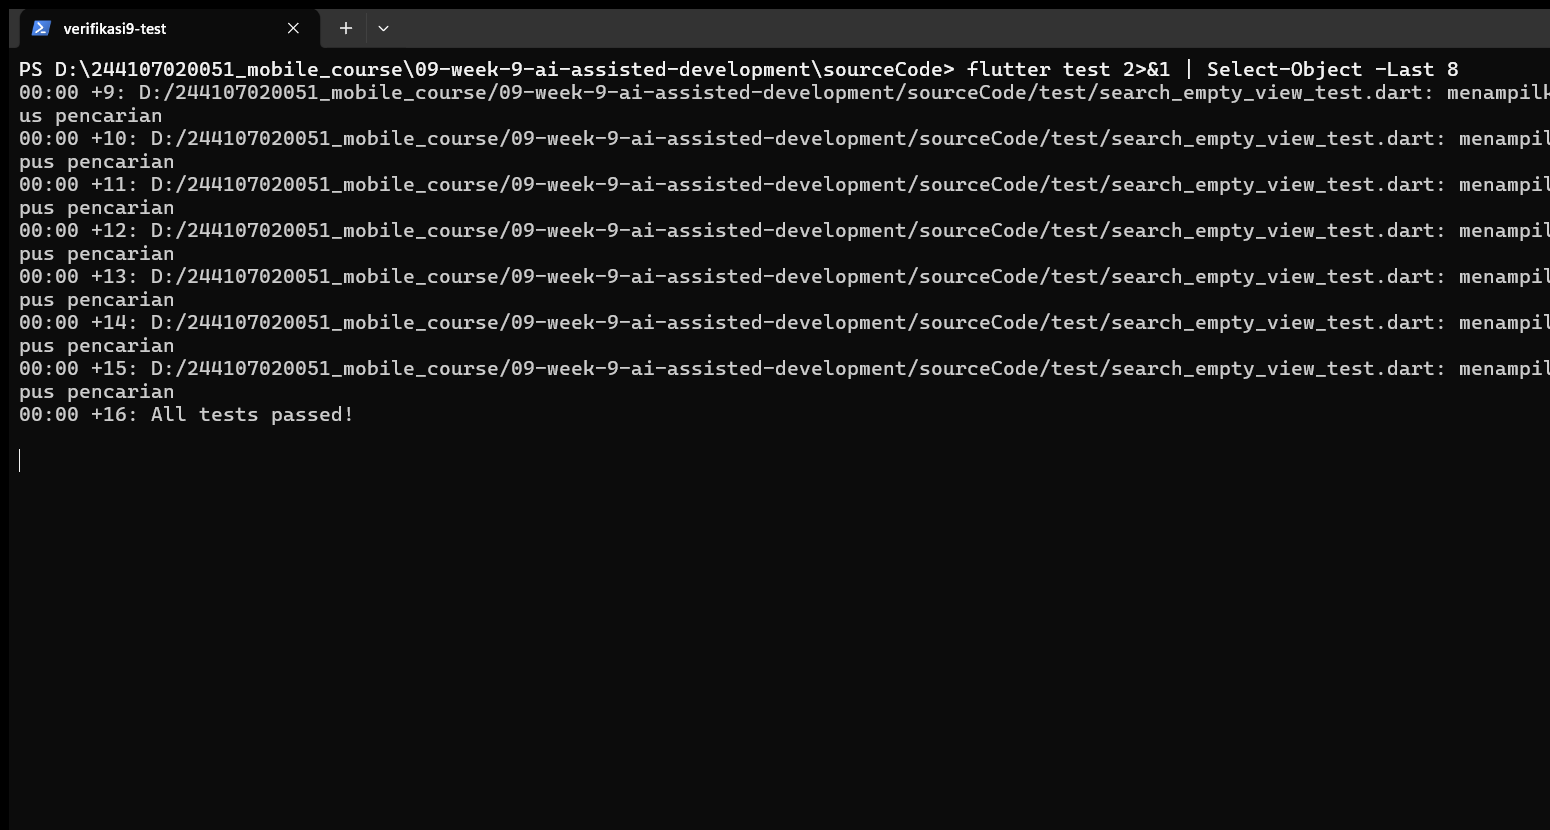
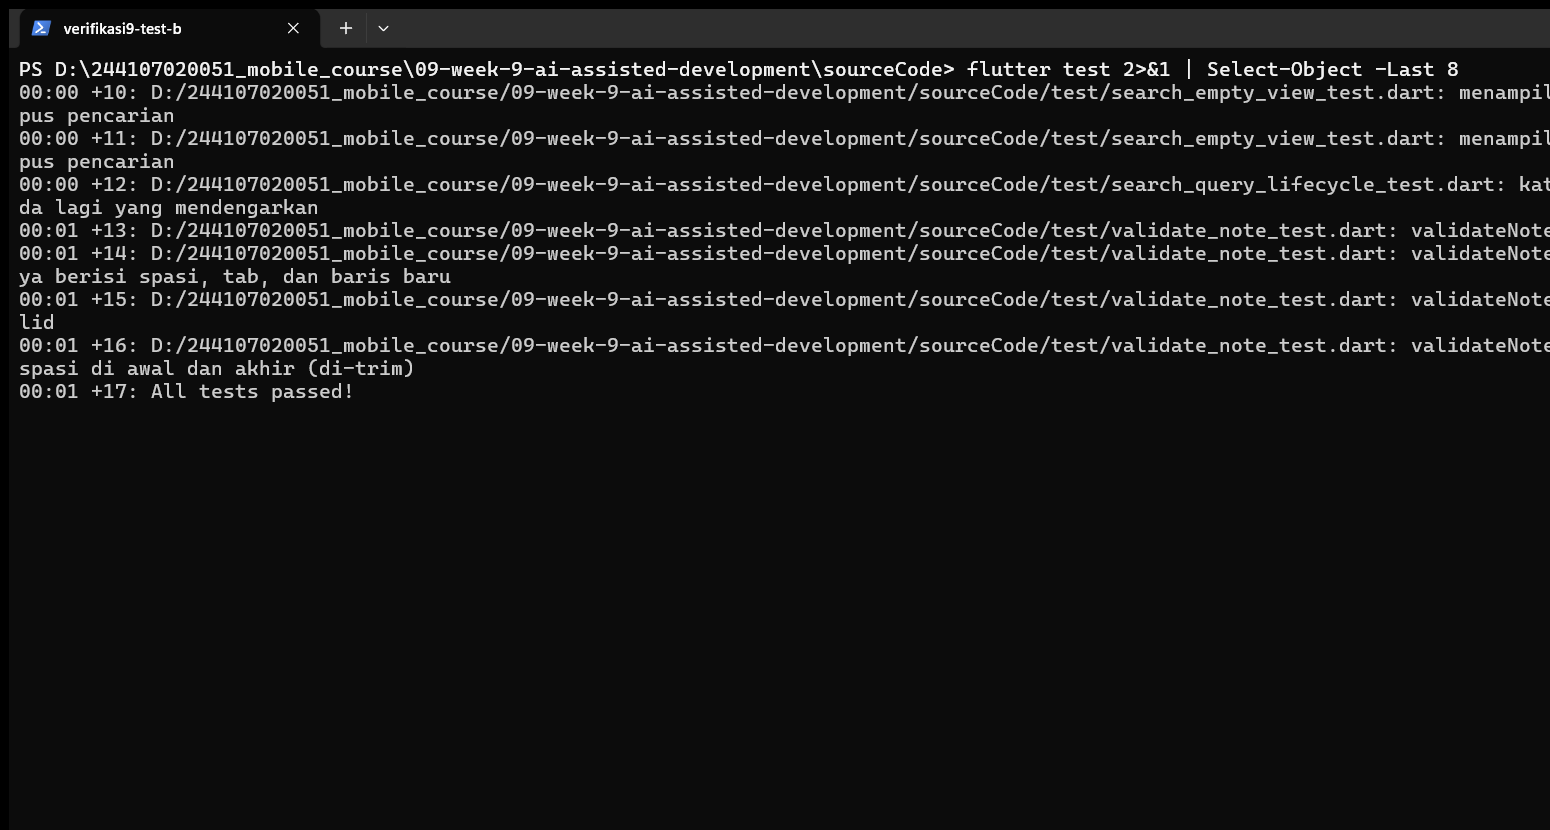
docs: lengkapi log AI dengan review tahap kedua dan bukti batas layer
Menambahkan prompt review sesuai modul, tiga temuan (satu blocker siklus hidup query, dua saran yang ditolak), bukti grep bahwa domain bebas Flutter/Dio/SQLite, serta baris uji manual untuk query kosong dan pindah tab. Screenshot analyze, format, dan test diambil ulang supaya angkanya cocok dengan 34 berkas dan 17 test.

diff --git a/09-week-9-ai-assisted-development/docs/ai-log.md b/09-week-9-ai-assisted-development/docs/ai-log.md
@@ -4,8 +4,8 @@
 **NIM:** 244107020051
 **Fitur:** pencarian judul catatan + empty state
 **Basis proyek:** `week5_offline_notes` hasil refaktor Minggu 7, disalin dari `08-week-8-mid-project-review/sourceCode`
-**Branch:** `feature/8-search-notes` → `develop`
-**Issue:** [#8](https://github.com/Ahmad-Zainudin-Fanani/244107020051_mobile_course/issues/8)
+**Branch:** `feature/8-search-notes`, lalu `fix/11-search-query-lifecycle` → `develop`
+**Issue:** [#8](https://github.com/Ahmad-Zainudin-Fanani/244107020051_mobile_course/issues/8), lanjutan [#11](https://github.com/Ahmad-Zainudin-Fanani/244107020051_mobile_course/issues/11)
 
 > AI dipakai sebagai pembuat draf dan reviewer awal. Setiap baris saya baca, setiap API saya cek, dan setiap keputusan di bawah ini bisa saya jelaskan tanpa membuka AI.
 
@@ -49,9 +49,9 @@ final notesProvider =
 
 ---
 
-## 2. Output awal AI (draf mentah)
+## 2. Output awal AI
 
-Ringkasan draf yang saya terima, sebelum disentuh:
+Potongan inti output awal AI, apa adanya sebelum diedit:
 
 ```dart
 // Draf 1 — ditaruh langsung di dalam build() NotesPage
@@ -150,6 +150,56 @@ $ flutter test test/search_notes_test.dart
 00:00 +5: All tests passed!
 ```
 
+### 3.3 Review tahap kedua: bug siklus hidup state
+
+Setelah fitur hijau, saya menjalankan prompt review yang diminta modul pada kode pencarian final:
+
+```text
+Review kode search Flutter ini sebagai senior dev.
+Konteks: feature-first (presentation->domain<-data), Riverpod, SQLite + Dio.
+Fokus: kebenaran, arsitektur, test. Abaikan style.
+Beri 3 temuan + level blocker/saran + alasan.
+```
+
+Tiga temuan yang muncul:
+
+| ID | Level | Temuan | Keputusan |
+| :---: | :--- | :--- | :--- |
+| R1 | blocker | `searchQueryProvider` berumur aplikasi, sedangkan `_searchController` berumur halaman. Saat tab berpindah, halaman dibuang tetapi query tetap, sehingga daftar tersaring tanpa teks di kolom cari. | **Diterima + diperbaiki**: provider diubah ke `NotifierProvider.autoDispose`, ditambah test regresi. |
+| R2 | saran | Tambahkan debounce pada `onChanged` supaya tidak memfilter tiap ketikan. | **Ditolak**: daftar sudah ada di memori dan tidak ada I/O; debounce hanya menambah delay yang terasa. |
+| R3 | saran | Tambahkan widget test yang mengetik di kolom cari lalu memeriksa daftar tersaring. | **Ditolak untuk saat ini**: wiring sudah diuji manual di perangkat dan aturan filter punya 5 unit test; widget test penuh butuh fake repository/DB yang menambah setup tanpa menambah keyakinan pada aturan yang sama. |
+
+R1 saya reproduksi di perangkat: cari `belanja`, pindah ke **Pengaturan**, lalu kembali ke **Catatan**. Hasilnya kolom cari kosong tetapi hanya dua catatan `Belanja` yang tampil. Setelah perbaikan, test regresi sempat merah pada kode lama:
+
+```text
+$ flutter test test/search_query_lifecycle_test.dart
+00:00 +0: kata kunci dibuang saat tidak ada lagi yang mendengarkan [E]
+  Expected: empty
+    Actual: 'belanja'
+00:00 +0 -1: Some tests failed.
+```
+
+lalu hijau setelah provider memakai `autoDispose`:
+
+```text
+00:00 +0: kata kunci dibuang saat tidak ada lagi yang mendengarkan
+00:00 +1: All tests passed!
+```
+
+Bukti visual: [`fix_search_state_before.png`](../Screenshots/fix_search_state_before.png) dan [`fix_search_state_after.png`](../Screenshots/fix_search_state_after.png).
+
+### 3.4 Cek batas layer
+
+Domain tidak boleh menyentuh Flutter, Dio, atau SQLite. Saya cek dengan pencarian langsung, bukan hanya membaca:
+
+```text
+$ Get-ChildItem lib/features/notes/domain -Recurse -Filter *.dart |
+    Select-String "package:flutter|package:dio|sqflite"
+(tidak ada output)
+```
+
+`flutter analyze` juga bersih, sehingga tidak ada import lintas layer yang lolos.
+
 ---
 
 ## 4. Saran AI yang ditolak
@@ -160,6 +210,8 @@ $ flutter test test/search_notes_test.dart
 | Pindahkan filter ke query SQLite (`WHERE title LIKE ?`) supaya "lebih scalable". | `notesProvider` sudah memegang daftar `Note` lengkap untuk kebutuhan offline-first, dan `NoteRepository` tidak punya kontrak pencarian. Menambah query baru berarti mengubah kontrak repository + schema test, padahal UI butuh hasil instan setiap ketikan. Aturan filter juga jadi tidak bisa diuji tanpa database. | Filter di use case domain murni, di atas data yang sudah dimuat. |
 | Simpan hasil pencarian di `setState` dalam `NotesPage`. | State pencarian akan hilang setiap rebuild/refresh dan tidak bisa dipakai widget lain. Ini juga mencampur aturan filter ke UI, melanggar pemisahan yang sudah dibangun Minggu 7. | `SearchQueryNotifier` + `filteredNotesProvider` di Riverpod. |
 | Buat empty state langsung `Center(child: Text(...))` di halaman. | Tidak bisa diuji sendiri dan menduplikasi layout saat nanti ada empty state lain. | Widget terpisah `SearchEmptyView` + widget test. |
+| Tambahkan debounce pada `onChanged` (temuan review R2). | Daftar catatan sudah ada di memori dan tidak ada I/O; debounce hanya menambah jeda yang terasa tanpa menghemat pekerjaan berarti. | Filter tetap dijalankan langsung setiap ketikan. |
+| Tambahkan widget test penuh untuk alur ketik -> filter (temuan review R3). | Aturan filter sudah diuji 5 kasus dan wiring-nya diuji manual di perangkat. Widget test penuh membutuhkan fake repository/DB, menambah setup tanpa menambah keyakinan pada aturan yang sama. | Test provider siklus hidup + uji manual; widget test tetap fokus pada empty state. |
 
 ---
 
@@ -168,11 +220,12 @@ $ flutter test test/search_notes_test.dart
 | Berkas | Keputusan | Catatan |
 | :--- | :--- | :--- |
 | `lib/features/notes/domain/usecases/search_notes.dart` | **Terima + refactor** | Ide AI dipakai, tapi dipindah dari widget ke fungsi domain murni dan dibuat peka huruf besar/kecil. |
-| `lib/features/notes/presentation/providers/notes_providers.dart` | **Tolak draf, tulis manual** | `notesProvider.notifier.search()` tidak ada; diganti `SearchQueryNotifier` dan `filteredNotesProvider`. |
+| `lib/features/notes/presentation/providers/notes_providers.dart` | **Tolak draf, tulis manual** | `notesProvider.notifier.search()` tidak ada; diganti `SearchQueryNotifier` dan `filteredNotesProvider`. Setelah review tahap kedua, provider query dibuat `autoDispose`. |
 | `lib/features/notes/presentation/pages/notes_page.dart` | **Terima + refactor** | Kolom cari dipakai, tetapi state diarahkan ke provider dan daftar memakai hasil `filteredNotesProvider`. |
 | `lib/features/notes/presentation/widgets/search_empty_view.dart` | **Terima + rapikan** | Draf teks polos diubah jadi widget dengan ikon, pesan kata kunci, dan tombol hapus pencarian. |
 | `test/search_notes_test.dart` | **Tulis manual** | Lima kasus: beda huruf, spasi, query kosong, tanpa hasil, dan kecocokan di tengah judul. |
 | `test/search_empty_view_test.dart` | **Tulis manual** | Memastikan kata kunci tampil dan tombol memanggil `onClear`. |
+| `test/search_query_lifecycle_test.dart` | **Tulis manual** | Regresi R1: state query harus kosong setelah listener terakhir dilepas. |
 | Dependency baru (`fuzzy`, dll.) | **Tolak** | Tidak perlu untuk kebutuhan *contains* sederhana. |
 
 ---
@@ -186,9 +239,10 @@ Perangkat: `2209116AG (mobile) • 5751c2fd0013 • android-arm64 • Android 13
 | Daftar awal | — | 5 catatan tampil, kolom cari terlihat | Lolos |
 | Cocok, beda huruf | `belanja` | 2 catatan: "Belanja bulanan", "Belanja harian" | Lolos |
 | Tidak cocok | `zzz` | Empty state + tombol "Hapus pencarian" | Lolos |
-| Hapus pencarian | tekan tombol | Kembali ke daftar penuh | Lolos |
+| Query kosong | tekan tombol hapus | Kembali ke daftar penuh, kolom cari kosong | Lolos |
+| Pindah tab saat query aktif | `belanja` -> Pengaturan -> Catatan | Sebelum perbaikan: daftar tetap tersaring padahal kolom kosong. Sesudah perbaikan: seluruh catatan tampil | **Lolos setelah fix R1** |
 
-Bukti visual ada di [`../Screenshots/app_notes_home.png`](../Screenshots/app_notes_home.png), [`../Screenshots/app_search_results.png`](../Screenshots/app_search_results.png), dan [`../Screenshots/app_search_empty.png`](../Screenshots/app_search_empty.png).
+Bukti visual ada di [`../Screenshots/app_notes_home.png`](../Screenshots/app_notes_home.png), [`../Screenshots/app_search_results.png`](../Screenshots/app_search_results.png), [`../Screenshots/app_search_empty.png`](../Screenshots/app_search_empty.png), [`../Screenshots/fix_search_state_before.png`](../Screenshots/fix_search_state_before.png), dan [`../Screenshots/fix_search_state_after.png`](../Screenshots/fix_search_state_after.png).
 
 ---
 
@@ -198,13 +252,13 @@ Dijalankan di `09-week-9-ai-assisted-development/sourceCode`:
 
 ```text
 $ flutter analyze
-No issues found! (ran in 6.2s)
+No issues found! (ran in 4.3s)
 
 $ dart format --output=none --set-exit-if-changed .
-Formatted 33 files (0 changed)
+Formatted 34 files (0 changed)
 
 $ flutter test
-00:00 +16: All tests passed!
+00:00 +17: All tests passed!
 ```
 
 Tangkapan layar: [`verif_flutter_analyze.png`](../Screenshots/verif_flutter_analyze.png), [`verif_dart_format.png`](../Screenshots/verif_dart_format.png), [`verif_flutter_test.png`](../Screenshots/verif_flutter_test.png).
@@ -220,3 +274,5 @@ Tangkapan layar: [`verif_flutter_analyze.png`](../Screenshots/verif_flutter_anal
 **Refactor terpenting** adalah memindahkan filter dari `build()` ke `searchNotesByTitle`. Efeknya bukan hanya lebih rapi: aturan bisnis sekarang bisa diuji lima kasus dalam hitungan milidetik, tanpa membangun widget atau database.
 
 **Keputusan tersulit** adalah menolak pencarian berbasis SQL. Terdengar lebih "dewasa" dan scalable, tetapi untuk ukuran data aplikasi ini justru menambah jalur yang tidak perlu diuji dan memutus kontrak repository yang sudah stabil.
+
+**Pelajaran dari review tahap kedua:** bug yang paling mengganggu justru tidak terlihat dari unit test domain. Test pencarian hijau, empty state hijau, tetapi siklus hidup state antarhalaman tetap salah. Review dengan prompt yang tepat menemukannya, dan satu test regresi kecil membuat perbaikannya bisa dibuktikan. Ini alasan saya tidak berhenti di "test hijau" — yang diuji harus mencakup perpindahan state, bukan hanya fungsi murni.

diff --git a/09-week-9-ai-assisted-development/README.md b/09-week-9-ai-assisted-development/README.md
@@ -7,6 +7,7 @@
 **Tautan Repositori:** [244107020051_mobile_course](https://github.com/Ahmad-Zainudin-Fanani/244107020051_mobile_course)
 **Issue:** [#8 Cari catatan berdasarkan judul dengan empty state](https://github.com/Ahmad-Zainudin-Fanani/244107020051_mobile_course/issues/8)
 **Pull Request:** [#9 feat(notes): cari catatan berdasarkan judul dengan empty state](https://github.com/Ahmad-Zainudin-Fanani/244107020051_mobile_course/pull/9)
+**Pull Request perbaikan:** [#12 fix(notes): query pencarian dibuang saat halaman catatan ditinggalkan](https://github.com/Ahmad-Zainudin-Fanani/244107020051_mobile_course/pull/12)
 **Log AI:** [`docs/ai-log.md`](docs/ai-log.md)
 
 ---
@@ -30,8 +31,8 @@ Yang penting dari minggu ini bukan jumlah kode yang dihasilkan AI, tetapi jejak 
 | Fitur kecil di atas project lama | 1 fitur | **Lolos** — pencarian judul + empty state |
 | Aturan pencarian di domain | Tidak di widget | **Lolos** — `searchNotesByTitle` |
 | `flutter analyze` | 0 issue | **Lolos** — `No issues found!` |
-| `dart format --set-exit-if-changed .` | 0 file berubah | **Lolos** — `33 files (0 changed)` |
-| `flutter test` | Semua hijau | **Lolos** — 16 test |
+| `dart format --set-exit-if-changed .` | 0 file berubah | **Lolos** — `34 files (0 changed)` |
+| `flutter test` | Semua hijau | **Lolos** — 17 test |
 | Dokumentasi AI | Prompt + halusinasi + tolak/terima | **Lolos** — [`docs/ai-log.md`](docs/ai-log.md) |
 | Uji di perangkat nyata | Android 13 | **Lolos** — `2209116AG` / `5751c2fd0013` |
 
@@ -85,16 +86,17 @@ Tidak ada akses database dari widget, dan aturan filter tidak bergantung pada Fl
 
 ## 4. Perubahan kode
 
-Diff fitur terhadap baseline Minggu 8: **6 berkas, +265 / −5 baris**.
+Diff fitur terhadap baseline Minggu 8: **7 berkas, +289 / −5 baris**.
 
 | Berkas | Perubahan |
 | :--- | :--- |
 | `lib/features/notes/domain/usecases/search_notes.dart` | **Baru** — fungsi murni `searchNotesByTitle` |
-| `lib/features/notes/presentation/providers/notes_providers.dart` | `SearchQueryNotifier`, `searchQueryProvider`, `filteredNotesProvider` |
+| `lib/features/notes/presentation/providers/notes_providers.dart` | `SearchQueryNotifier`, `searchQueryProvider` (autoDispose), `filteredNotesProvider` |
 | `lib/features/notes/presentation/pages/notes_page.dart` | Kolom cari, daftar memakai hasil filter, tombol hapus |
 | `lib/features/notes/presentation/widgets/search_empty_view.dart` | **Baru** — empty state yang bisa diuji |
 | `test/search_notes_test.dart` | **Baru** — 5 unit test aturan pencarian |
 | `test/search_empty_view_test.dart` | **Baru** — widget test empty state |
+| `test/search_query_lifecycle_test.dart` | **Baru** — regresi query dibuang saat halaman ditinggalkan |
 
 Baseline project Minggu 8 disalin lebih dulu pada commit `chore`, sehingga diff fitur tetap kecil dan mudah direview.
 
@@ -132,13 +134,13 @@ Uji manual:
 
 ```text
 $ flutter analyze
-No issues found! (ran in 6.2s)
+No issues found! (ran in 4.3s)
 
 $ dart format --output=none --set-exit-if-changed .
-Formatted 33 files (0 changed)
+Formatted 34 files (0 changed)
 
 $ flutter test
-00:00 +16: All tests passed!
+00:00 +17: All tests passed!
 ```
 
 <div align="center">
@@ -153,7 +155,7 @@ $ flutter test
 
 <div align="center">
   <img src="Screenshots/verif_flutter_test.png" alt="Hasil flutter test" width="650">
-  <p><em>Gambar 6.3: 16 test lulus, termasuk 5 test pencarian dan 1 widget test empty state.</em></p>
+  <p><em>Gambar 6.3: 17 test lulus, termasuk 5 test pencarian, 1 widget test empty state, dan 1 test siklus hidup query.</em></p>
 </div>
 
 ### 6.2 Bukti di perangkat
@@ -175,6 +177,20 @@ Diambil dari `2209116AG (mobile) • 5751c2fd0013 • android-arm64 • Android 
   <p><em>Gambar 6.6: Query <code>zzz</code> menampilkan empty state dan tombol hapus pencarian.</em></p>
 </div>
 
+### 6.3 Perbaikan siklus hidup pencarian
+
+Review tahap kedua menemukan bug: setelah mencari lalu pindah tab, kolom cari kosong tetapi daftar tetap tersaring. Penyebabnya query hidup lebih lama daripada halaman. Sesudah provider dibuat `autoDispose`, seluruh catatan kembali tampil.
+
+<div align="center">
+  <img src="Screenshots/fix_search_state_before.png" alt="Sebelum perbaikan: kolom kosong tapi daftar tersaring" width="260">
+  <p><em>Gambar 6.7: Sebelum perbaikan — kolom cari kosong, tetapi hanya dua catatan <code>Belanja</code> yang tampil.</em></p>
+</div>
+
+<div align="center">
+  <img src="Screenshots/fix_search_state_after.png" alt="Sesudah perbaikan: seluruh catatan tampil" width="260">
+  <p><em>Gambar 6.8: Sesudah perbaikan — pindah tab mengembalikan seluruh catatan dan mengosongkan pencarian.</em></p>
+</div>
+
 ---
 
 ## 7. Temuan AI dan keputusan
@@ -188,6 +204,7 @@ Ringkasan; detail bukti ada di [`docs/ai-log.md`](docs/ai-log.md).
 | Tambah package `fuzzy` | Tidak perlu untuk kebutuhan *contains* | **Ditolak**, tanpa dependency baru |
 | Pindahkan pencarian ke `WHERE title LIKE ?` | Memutus kontrak repository dan sulit diuji tanpa DB | **Ditolak**, tetap filter di domain murni |
 | Empty state teks polos | Tidak bisa diuji sendiri | **Diterima + refactor** jadi `SearchEmptyView` |
+| Query hidup lebih lama dari halaman (review R1) | Reproduksi pindah tab: kolom kosong tetapi daftar tetap tersaring; test regresi merah `Actual: 'belanja'` | **Diterima + diperbaiki** dengan `autoDispose` |
 
 ---
 
@@ -198,6 +215,9 @@ Issue #8
   -> branch feature/8-search-notes dari develop
   -> chore baseline -> feat domain+test -> feat UI -> docs screenshot -> docs laporan
   -> PR #9 "Closes #8" -> CI hijau -> merge commit ke develop
+  -> review tahap kedua menemukan bug siklus hidup query -> Issue #11
+  -> branch fix/11-search-query-lifecycle -> test merah -> fix autoDispose
+  -> PR #12 "Closes #11" -> CI hijau -> merge commit ke develop
   -> release PR develop -> main -> back-merge main -> develop
 ```
 
@@ -210,6 +230,7 @@ Commit yang dibuat:
 | `feat: pasang kolom cari dan empty state di daftar catatan` | Provider, UI, widget empty state |
 | `docs: simpan tangkapan layar pencarian dari HP 2209116AG` | 3 screenshot perangkat |
 | `docs: catat prompt, halusinasi, dan keputusan AI` | `docs/ai-log.md`, README, bukti verifikasi |
+| `fix: buang kata kunci pencarian saat halaman catatan ditinggalkan` | `autoDispose` + test regresi siklus hidup query |
 
 Branch `main` tetap hanya menerima perubahan lewat PR rilis, dan `develop` menjadi target default PR fitur.
 
@@ -228,15 +249,20 @@ Bukti alur di GitHub: [`verif_issue.png`](Screenshots/verif_issue.png) (issue #8
 │   ├── app_notes_home.png
 │   ├── app_search_results.png
 │   ├── app_search_empty.png
+│   ├── fix_search_state_before.png
+│   ├── fix_search_state_after.png
 │   ├── verif_flutter_analyze.png
 │   ├── verif_dart_format.png
-│   └── verif_flutter_test.png
+│   ├── verif_flutter_test.png
+│   ├── verif_issue.png
+│   ├── verif_pr.png
+│   └── verif_ci.png
 └── sourceCode/
     ├── lib/features/notes/domain/usecases/search_notes.dart
     ├── lib/features/notes/presentation/providers/notes_providers.dart
     ├── lib/features/notes/presentation/pages/notes_page.dart
     ├── lib/features/notes/presentation/widgets/search_empty_view.dart
-    └── test/search_notes_test.dart, test/search_empty_view_test.dart
+    └── test/search_notes_test.dart, test/search_empty_view_test.dart, test/search_query_lifecycle_test.dart
 ```
 
 ---
@@ -248,3 +274,5 @@ Halusinasi yang paling jelas adalah `notesProvider.notifier.search()`. AI menuli
 Refactor terpenting adalah memindahkan aturan pencarian dari `build()` ke `searchNotesByTitle`. Sejak itu, lima kasus bisa diuji dalam milidetik tanpa widget atau database. Keputusan tersulit adalah menolak pencarian berbasis SQL yang terdengar lebih "scalable" — untuk ukuran data aplikasi ini, jalur itu hanya menambah bagian yang harus diuji tanpa manfaat nyata.
 
 Ke depannya, saya akan tetap memakai AI untuk draf dan review awal, tetapi dengan dua kebiasaan yang terbukti berguna minggu ini: **tulis test sebelum percaya**, dan **minta bukti analyzer/grep untuk setiap API yang namanya tidak saya kenal**.
+
+Review tahap kedua memberi pelajaran tambahan: semua test bisa hijau sementara perilaku antarhalaman tetap salah. Bug query yang bertahan setelah pindah tab tidak terlihat dari unit test domain, dan baru terbukti lewat reproduksi di perangkat plus satu test siklus hidup. Sejak itu, saya tidak menganggap "test hijau" sebagai akhir verifikasi, tetapi sebagai syarat minimum.
